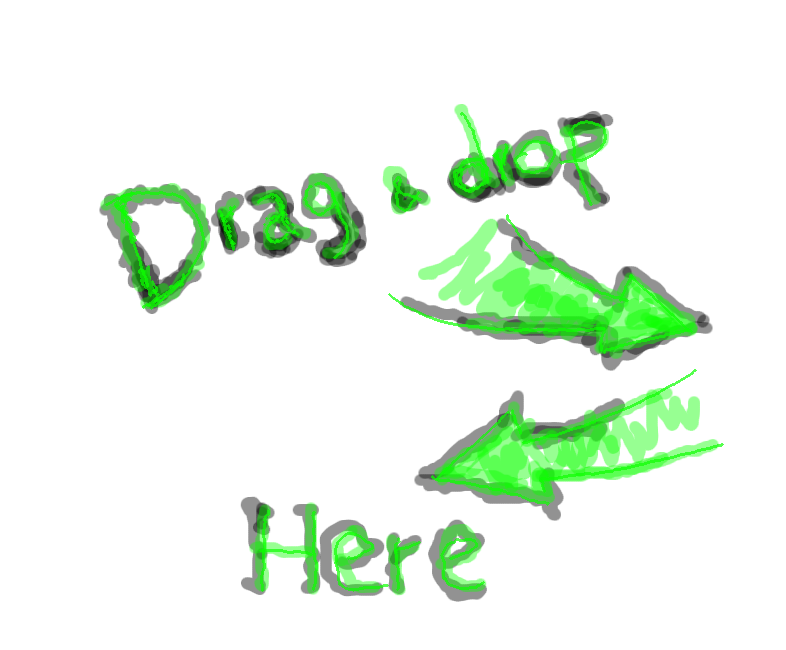
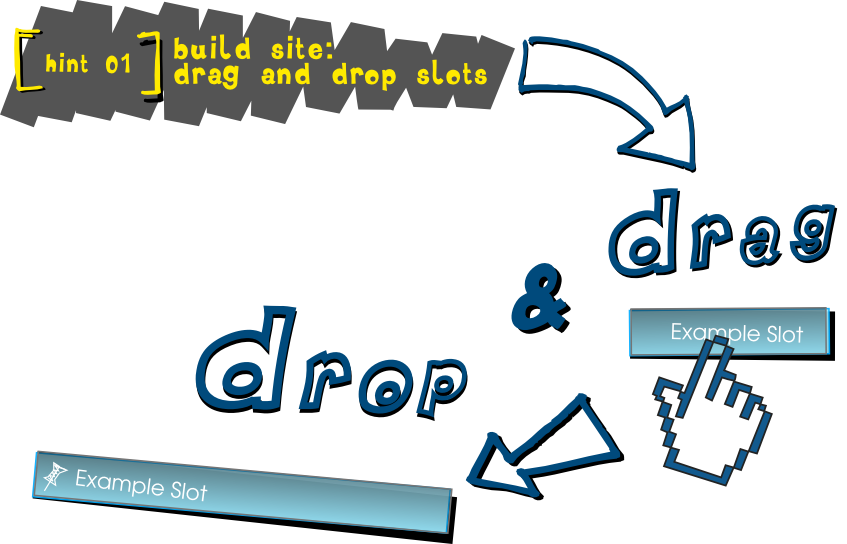
new help to drag and drop and add panel to new code inspector

diff --git a/core-files/uigen-debuger.php b/core-files/uigen-debuger.php
@@ -10,16 +10,39 @@
 		}
 
 }
+
+#onHandler{
+	border-right:5px solid #333;
+}
+#new-inspector{
+	position:absolute;
+	border:5px solid #333;
+	margin:10px;
+	padding:20px;
+	background-color: #555;
+	color:#eee;
+	display:none;
+	box-shadow: 0px 0px 20px #333;
+}
 #debug-manager{
 	position:fixed;
 	width: 250px;
-	height:100%;
-	right:0;
-	border-left:5px solid #333;
+	height:100%;	
 	background-color: #555;
 	color:#eee;
 	padding:0px 20px;
+	right:-250px;
+	z-index:2000;
+	transition: right 0.5s ease-in-out;
 }
+#debug-manager.right0{
+	right:0px;
+}
+#debug-manager.right-200{
+	right:-250px;
+}
+
+
 #debug-manager .ui_slot_element{
 	display:none;
 }
@@ -27,10 +50,14 @@
 	display:none;
 }
 body{
-	margin-right:250px !important;
+	position:relative;
+	transition: margin-left 0.5s ease-in-out,margin-right 0.5s ease-in-out;
+}
+body.right250{
+	margin-right:250px;
 }
 body.left200{
-	margin-left:200px !important;
+	margin-left:200px;
 }
 
 #uigen_asset_list{
@@ -38,11 +65,14 @@ body.left200{
 	top:0;
 	width:200px;
 	height:100%;
-	left:0;
+	left:-100px;
 	border-right:5px solid #333;
 	background-color: #555;
 	font-size:12px;
-	display:none;
+	margin-left:-200px;
+
+	transition: left 0.5s ease-in-out;
+
 }
 
 #uigen_asset_list .panel-title{
@@ -56,6 +86,7 @@ body.left200{
 	display:none;
 	box-shadow: 0px 0px 10px #888888;
 	min-height:60px !important;
+	background-color: rgb(255,255,255);
 
 }
 .ui-state-active{
@@ -134,6 +165,7 @@ body.left200{
 	margin-top:10px;
 	border-radius: 10px;
 	box-shadow: 0px 0px 50px #333;
+	left:0;
 }
 .portlet-inspect textarea{
 	float:left; width:50%; margin:0; padding:6px; font-family:courier; color:navy;
@@ -160,7 +192,7 @@ body.left200{
 	box-shadow: 0px 0px 1100px 1180px #fff;
 }
 .help-panel{
-	position:fixed; width:100%; height:100%; background-color:rgba(0,0,0,0.5); z-index:1000; 
+	position:fixed; width:100%; height:100%; background-color:rgba(0,0,0,0.5); z-index:3000; display:none;
 }
 
 
@@ -170,11 +202,10 @@ function decorate_debuged_page_header($gridName,$args){
 
 	?>
 
-	<!--
-	 	<div id="help_panel" class="help-panel">
-			<img src="<?php echo plugins_url();?>/UiGEN-Core/img/help_drag_and_drop.png" style="float:right; margin-right:100px">
+		<div id="help_panel" class="help-panel">
+			<img src="<?php echo plugins_url();?>/UiGEN-Core/img/help_drag_and_drop.png" style="float:right; margin-right:10px; margin-top:10px">
 		</div>
-	 -->
+
 
 	<div class="debug-grid-bar-decorator" data-page-name="<?php echo $args['ui_page_name']; ?>">
 
@@ -197,13 +228,19 @@ function decorate_debuged_page_header($gridName,$args){
 			</div>
 		</div>
 		
-
+		
 
 		<?php
 			decorate_slot('start',$gridName,$args);
 			decorate_slot('end',$gridName,$args);
-		?>			
+		?>	
+
+
 	</div>
+
+	<div id="new-inspector">
+
+	</div>	
 
 	<div id="footer_save_info">
 		<table>
@@ -313,19 +350,7 @@ function decorate_slot($position,$slotName,$slot){
 }	
 
 
-function decorate_template_parts($position){
-	/*if($position=='start'){
-	?>
-		<div style="outline:#9E9E9E dashed 1px; margin-top:2px">
-	<?php
-	}
-	if($position=='end'){
-	?>
-		<br style="clear:both"/>
-		</div>
-	<?php
-	}*/
-}
+
 ?>
 
 <!-- Modal -->
@@ -349,8 +374,6 @@ function decorate_template_parts($position){
 
 
 <div id="debug-manager">
-
-
 </div>
 
 <script>
@@ -358,8 +381,25 @@ var donateString = 'This feature not implemented yet.\n If You want donate this 
 window.onload=function(){
 
 	jQuery( ".uigen-act-cell" ).fadeIn( "slow", function() {
-	    jQuery( ".tplpart_decorator_options_panel" ).slideDown(300);
-	 });	
+	    //jQuery( ".tplpart_decorator_options_panel" ).slideDown(300);
+	    jQuery( ".tplpart_decorator_options_panel" ).slideDown( "slow", function() {
+		    // Animation complete.
+		    //jQuery('#debug-manager').css('display','block');
+		    jQuery('body').addClass('right250');
+			jQuery('#debug-manager').addClass('right0');
+			jQuery('#help_panel').fadeIn("slow");
+
+		});
+	   
+
+	 });
+
+	jQuery('#help_panel').click( "li.slotEdit", function() {
+		jQuery('#help_panel').children().remove();
+		jQuery('#help_panel').css('display','none');
+	});
+
+
 
 	jQuery(document).on('click', "li.slotEdit", function() {
 		alert(donateString);
@@ -402,40 +442,74 @@ window.onload=function(){
 	});
 
 	jQuery(document).on('click', "li.debugInspect", function() {
+		//alert('inspect');
 
-		jQuery(this).parent().parent().parent().parent().children('.portlet-inspect').css('left','10');
-		jQuery(this).parent().parent().parent().parent().children('.portlet-inspect').css('min-width',jQuery(window).width()-500);
+		//var insprector_width = jQuery('.debug-grid-bar-decorator').css('width-200');
+
+		//jQuery(this).parent().parent().parent().parent().children('.portlet-inspect').css('left','-100px');
+		//jQuery(this).parent().parent().parent().parent().children('.portlet-inspect').css('min-width',insprector_width);
+
+		jQuery.ajax({
+			type: "POST",
+			url: "<?php echo plugins_url();?>/UiGEN-Core/core-files/debuger-ajax/inspector-add-inspector-form.php",
+			data: {  }
+		})
+		.done(function( msg ) {	 
+			jQuery('#new-inspector').append(msg);
+			//loadSlotListHandler();
+		});
+
+		var offset = jQuery(this).parent().parent().parent().parent().offset();
+		jQuery('#new-inspector').css('top',offset.top+30);
+		jQuery('#new-inspector').css('z-index','1000');
 
 	 	if(jQuery(this).hasClass('open')==true){
 	 		
 
-	 		jQuery(this).parent().parent().parent().parent().children('.portlet-inspect').css('display','none');
-	  		jQuery(this).removeClass('open');
-	  		jQuery(this).removeClass('btn-success');
+	 		//jQuery(this).parent().parent().parent().parent().children('.portlet-inspect').css('display','none');
+	  		//jQuery(this).removeClass('open');
+	  		//jQuery(this).removeClass('btn-success');
 
 
 	 	}else{
 
- 			jQuery(this).parent().parent().parent().parent().children('.portlet-inspect').children('textarea').addClass('form-control');
-	  		jQuery(this).parent().parent().parent().parent().children('.portlet-inspect').css('display','block');
-	  		jQuery(this).addClass('open');
-	  		jQuery(this).addClass('btn-success');
+ 			//jQuery(this).parent().parent().parent().parent().children('.portlet-inspect').children('textarea').addClass('form-control');
+	  		//jQuery(this).parent().parent().parent().parent().children('.portlet-inspect').css('display','block');
+	  		//jQuery(this).addClass('open');
+	  		//jQuery(this).addClass('btn-success');
 			jQuery('body').addClass('left200');
-			jQuery('#uigen_asset_list').css('display','block');
+
+			//jQuery('#uigen_asset_list').css('display','block');
+			jQuery('#uigen_asset_list').css('left','200px');
 
 	  		
-  			var height = jQuery(this).parent().parent().parent().parent().children('.portlet-inspect').children('pre').height();	  	
- 			jQuery(this).parent().parent().parent().parent().children('.portlet-inspect').children('textarea').css('height',height+22);
+  			//var height = jQuery(this).parent().parent().parent().parent().children('.portlet-inspect').children('pre').height();	  	
+ 			//jQuery(this).parent().parent().parent().parent().children('.portlet-inspect').children('textarea').css('height',height+22);
+			jQuery('#new-inspector').fadeIn(1000);
 
+
+			jQuery('#debug-manager').removeClass('right0');
+			jQuery('#debug-manager').addClass('right-200');
+			jQuery('body').removeClass('right250');
 	  		
 		}
 	});
 	jQuery(document).on('click', "button.debug-close", function() {	
-			jQuery(this).parent().css('display','none');
-	  		jQuery(this).parent().prev().children('.btn-group').children('.dropdown-menu').children('.debugInspect').removeClass('open');
-	  		jQuery(this).parent().prev().children('.btn-group').children('.dropdown-menu').children('.debugInspect').removeClass('btn-success');
+			//jQuery(this).parent().css('display','none');
+	  		//jQuery(this).parent().prev().children('.btn-group').children('.dropdown-menu').children('.debugInspect').removeClass('open');
+	  		//jQuery(this).parent().prev().children('.btn-group').children('.dropdown-menu').children('.debugInspect').removeClass('btn-success');
 			jQuery('body').removeClass('left200');
-			jQuery('#uigen_asset_list').css('display','none');
+			jQuery('#new-inspector').css('display','none');
+
+			jQuery('#new-inspector').children().remove();
+			
+			jQuery('body').addClass('right250');
+
+			jQuery('#debug-manager').addClass('right0');
+			jQuery('#debug-manager').removeClass('right-200');
+
+			//jQuery('#uigen_asset_list').css('display','none');
+			jQuery('#uigen_asset_list').css('left','0');
 	});
 
 	jQuery(document).on('click', "button.debug-save-yaml", function() {	

diff --git a/core-files/debuger-ajax/inspector-add-inspector-form.php b/core-files/debuger-ajax/inspector-add-inspector-form.php
@@ -1,0 +1,21 @@
+
+<button type="button" class="debug-urlencode btn btn-primary" data-toggle="modal" data-target="#debugModal"><span class="glyphicon glyphicon glyphicon-link"></span> Encode to URL</button>
+<button type="button" class="debug-save-yaml btn btn-success" data-toggle="modal" data-target="#debugModal"><span class="glyphicon glyphicon-floppy-disk"></span> Save code</button>
+<button type="button" class="debug-close btn btn-danger" style="float:right"><span class="glyphicon glyphicon-remove-circle"></span> Close</button>
+
+<h2>Programmers Mode::Object properties</h2>
+<p>
+Data editor usage YAML syntax (<a href="http://wikipedia.org/wiki/YAML" target="_blank">about YAML on Wiki</a>)	
+<br/>	
+Lorem ipsum dolor sit amet, consectetur adipisicing elit. Rerum, voluptatibus, enim, animi, voluptas ad perferendis adipisci assumenda libero porro voluptate suscipit nihil laborum unde distinctio ipsum atque eveniet quasi molestiae.
+</p>
+	
+<textarea  class="" rows="5"><?php
+	require_once ABSPATH . 'wp-content/plugins/UiGEN-Core/class/Spyc.php';
+	
+	$fullSlot = array($slotName => $slot);
+	$Data = Spyc::YAMLDump($fullSlot);
+	echo $Data;
+	
+?></textarea>
+<pre style="float:left; width:50%; margin:0; padding:10px;"><?php echo $slotName.":"; print_r($slot); ?></pre>
